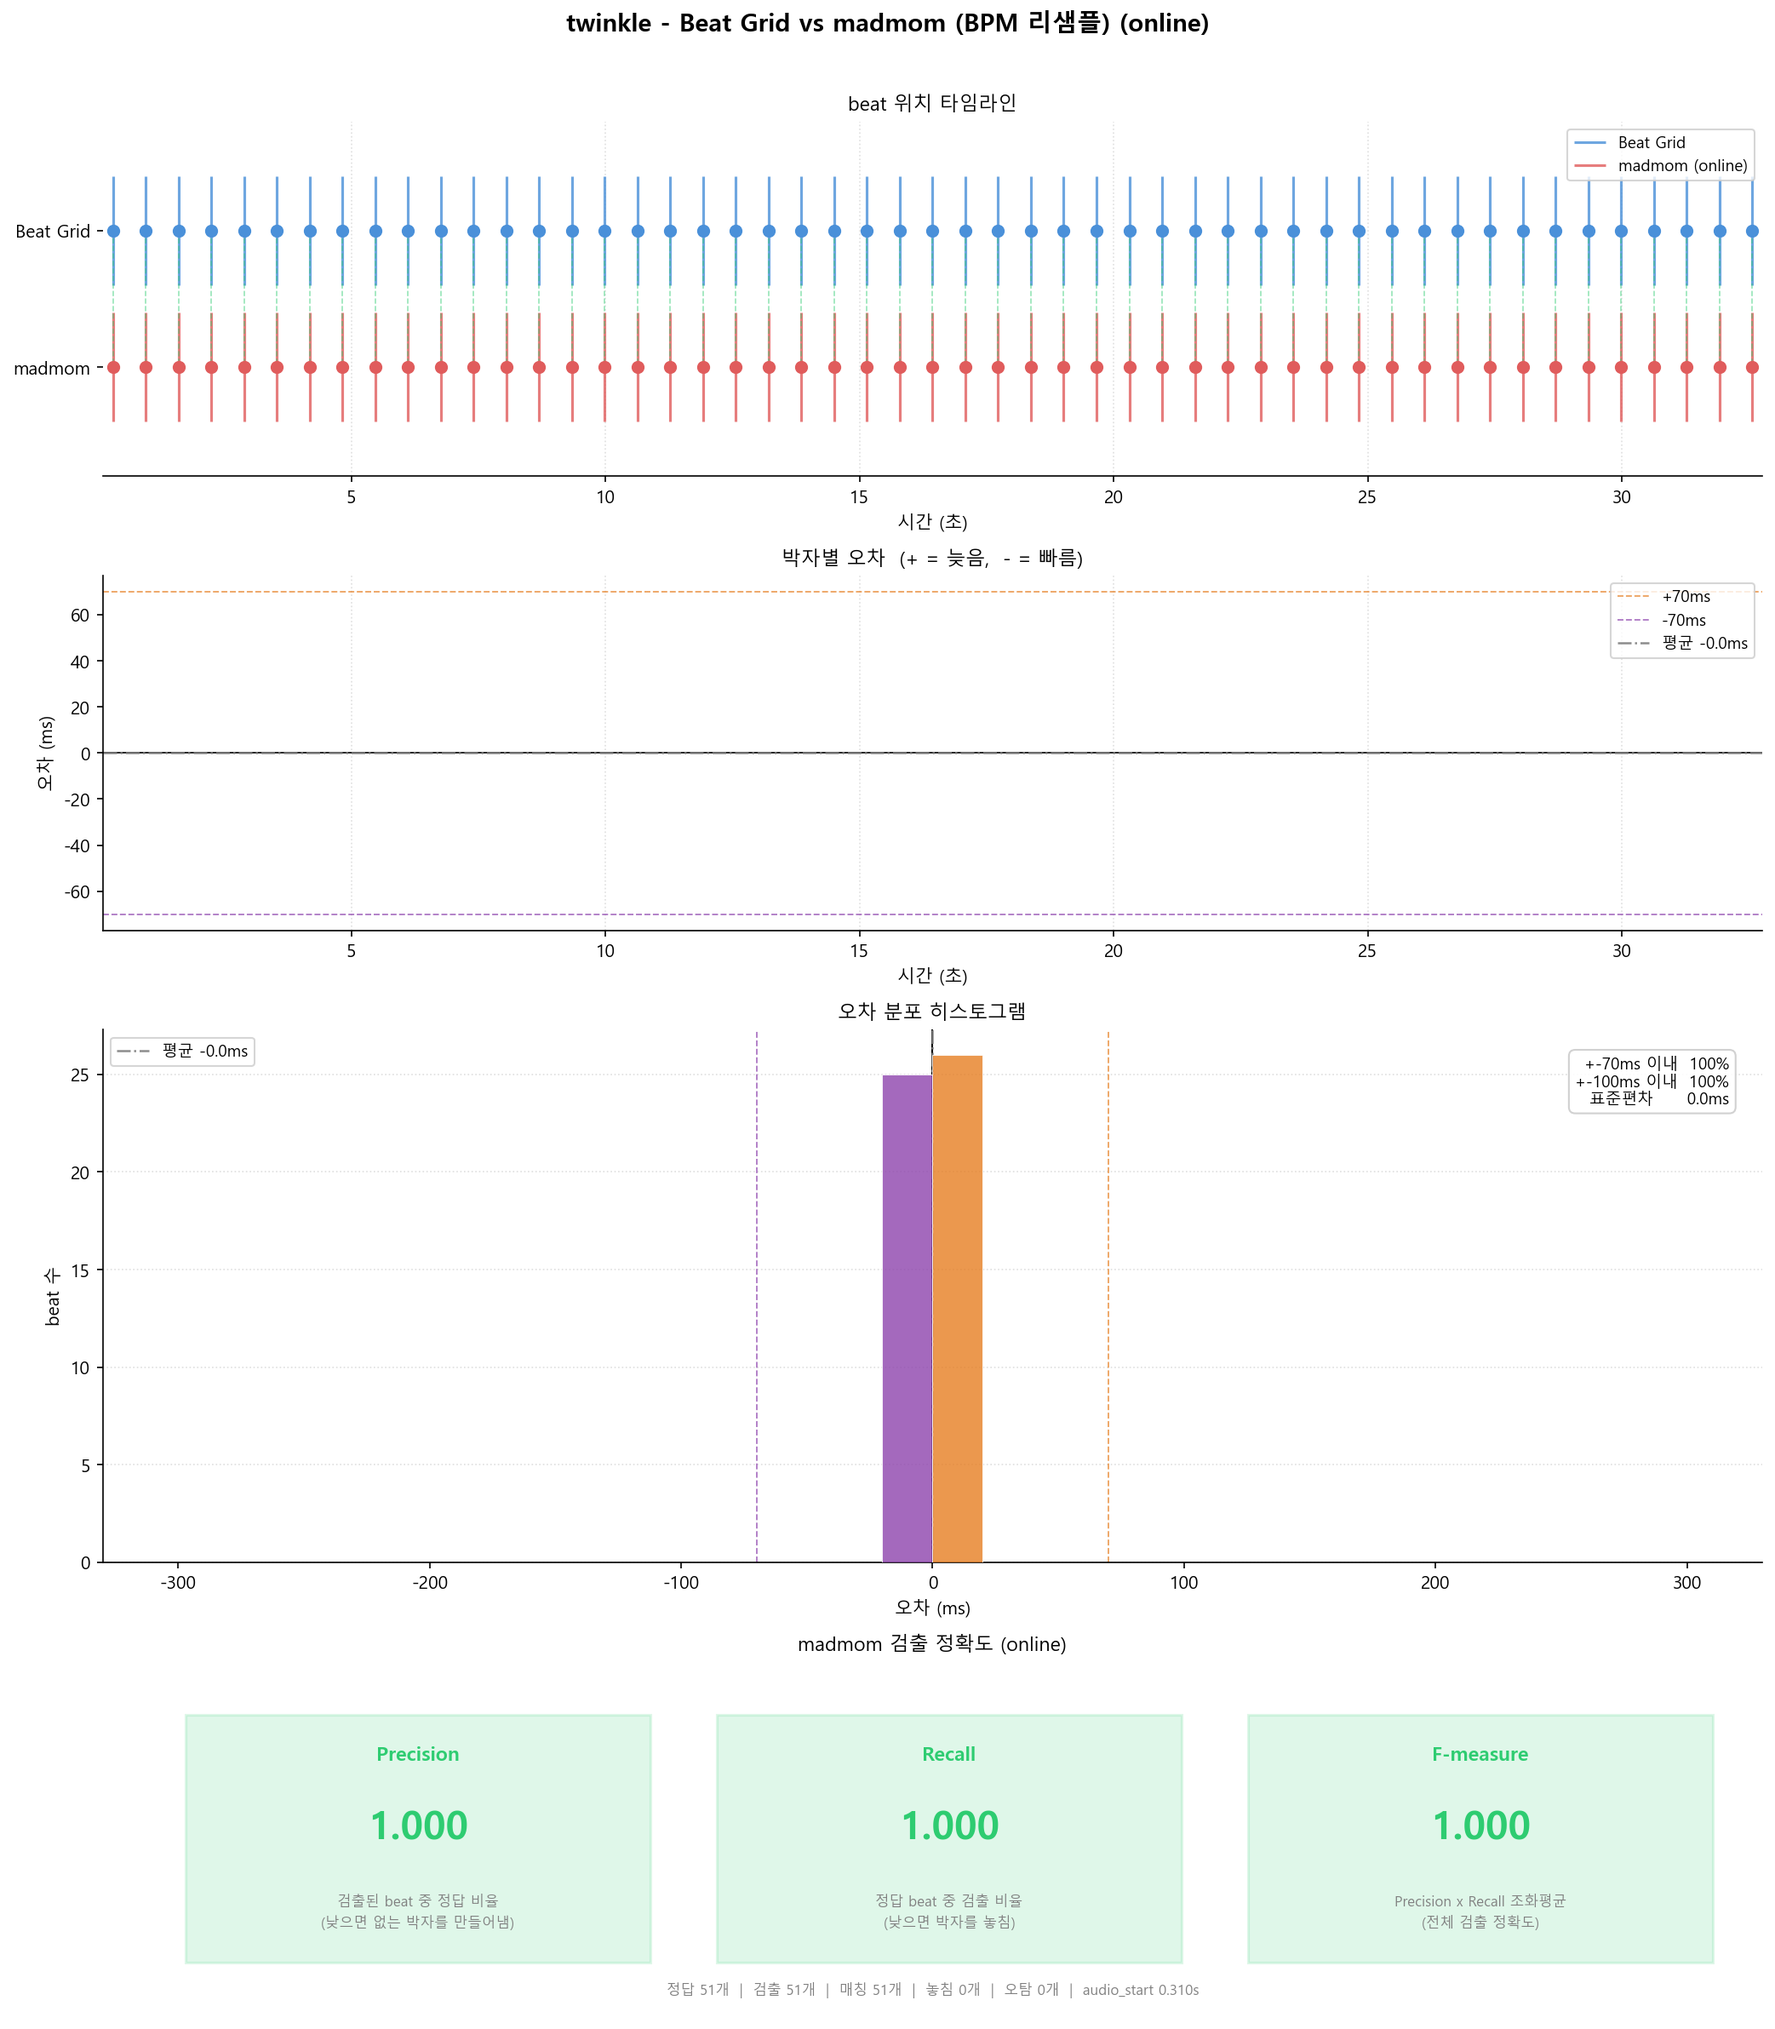
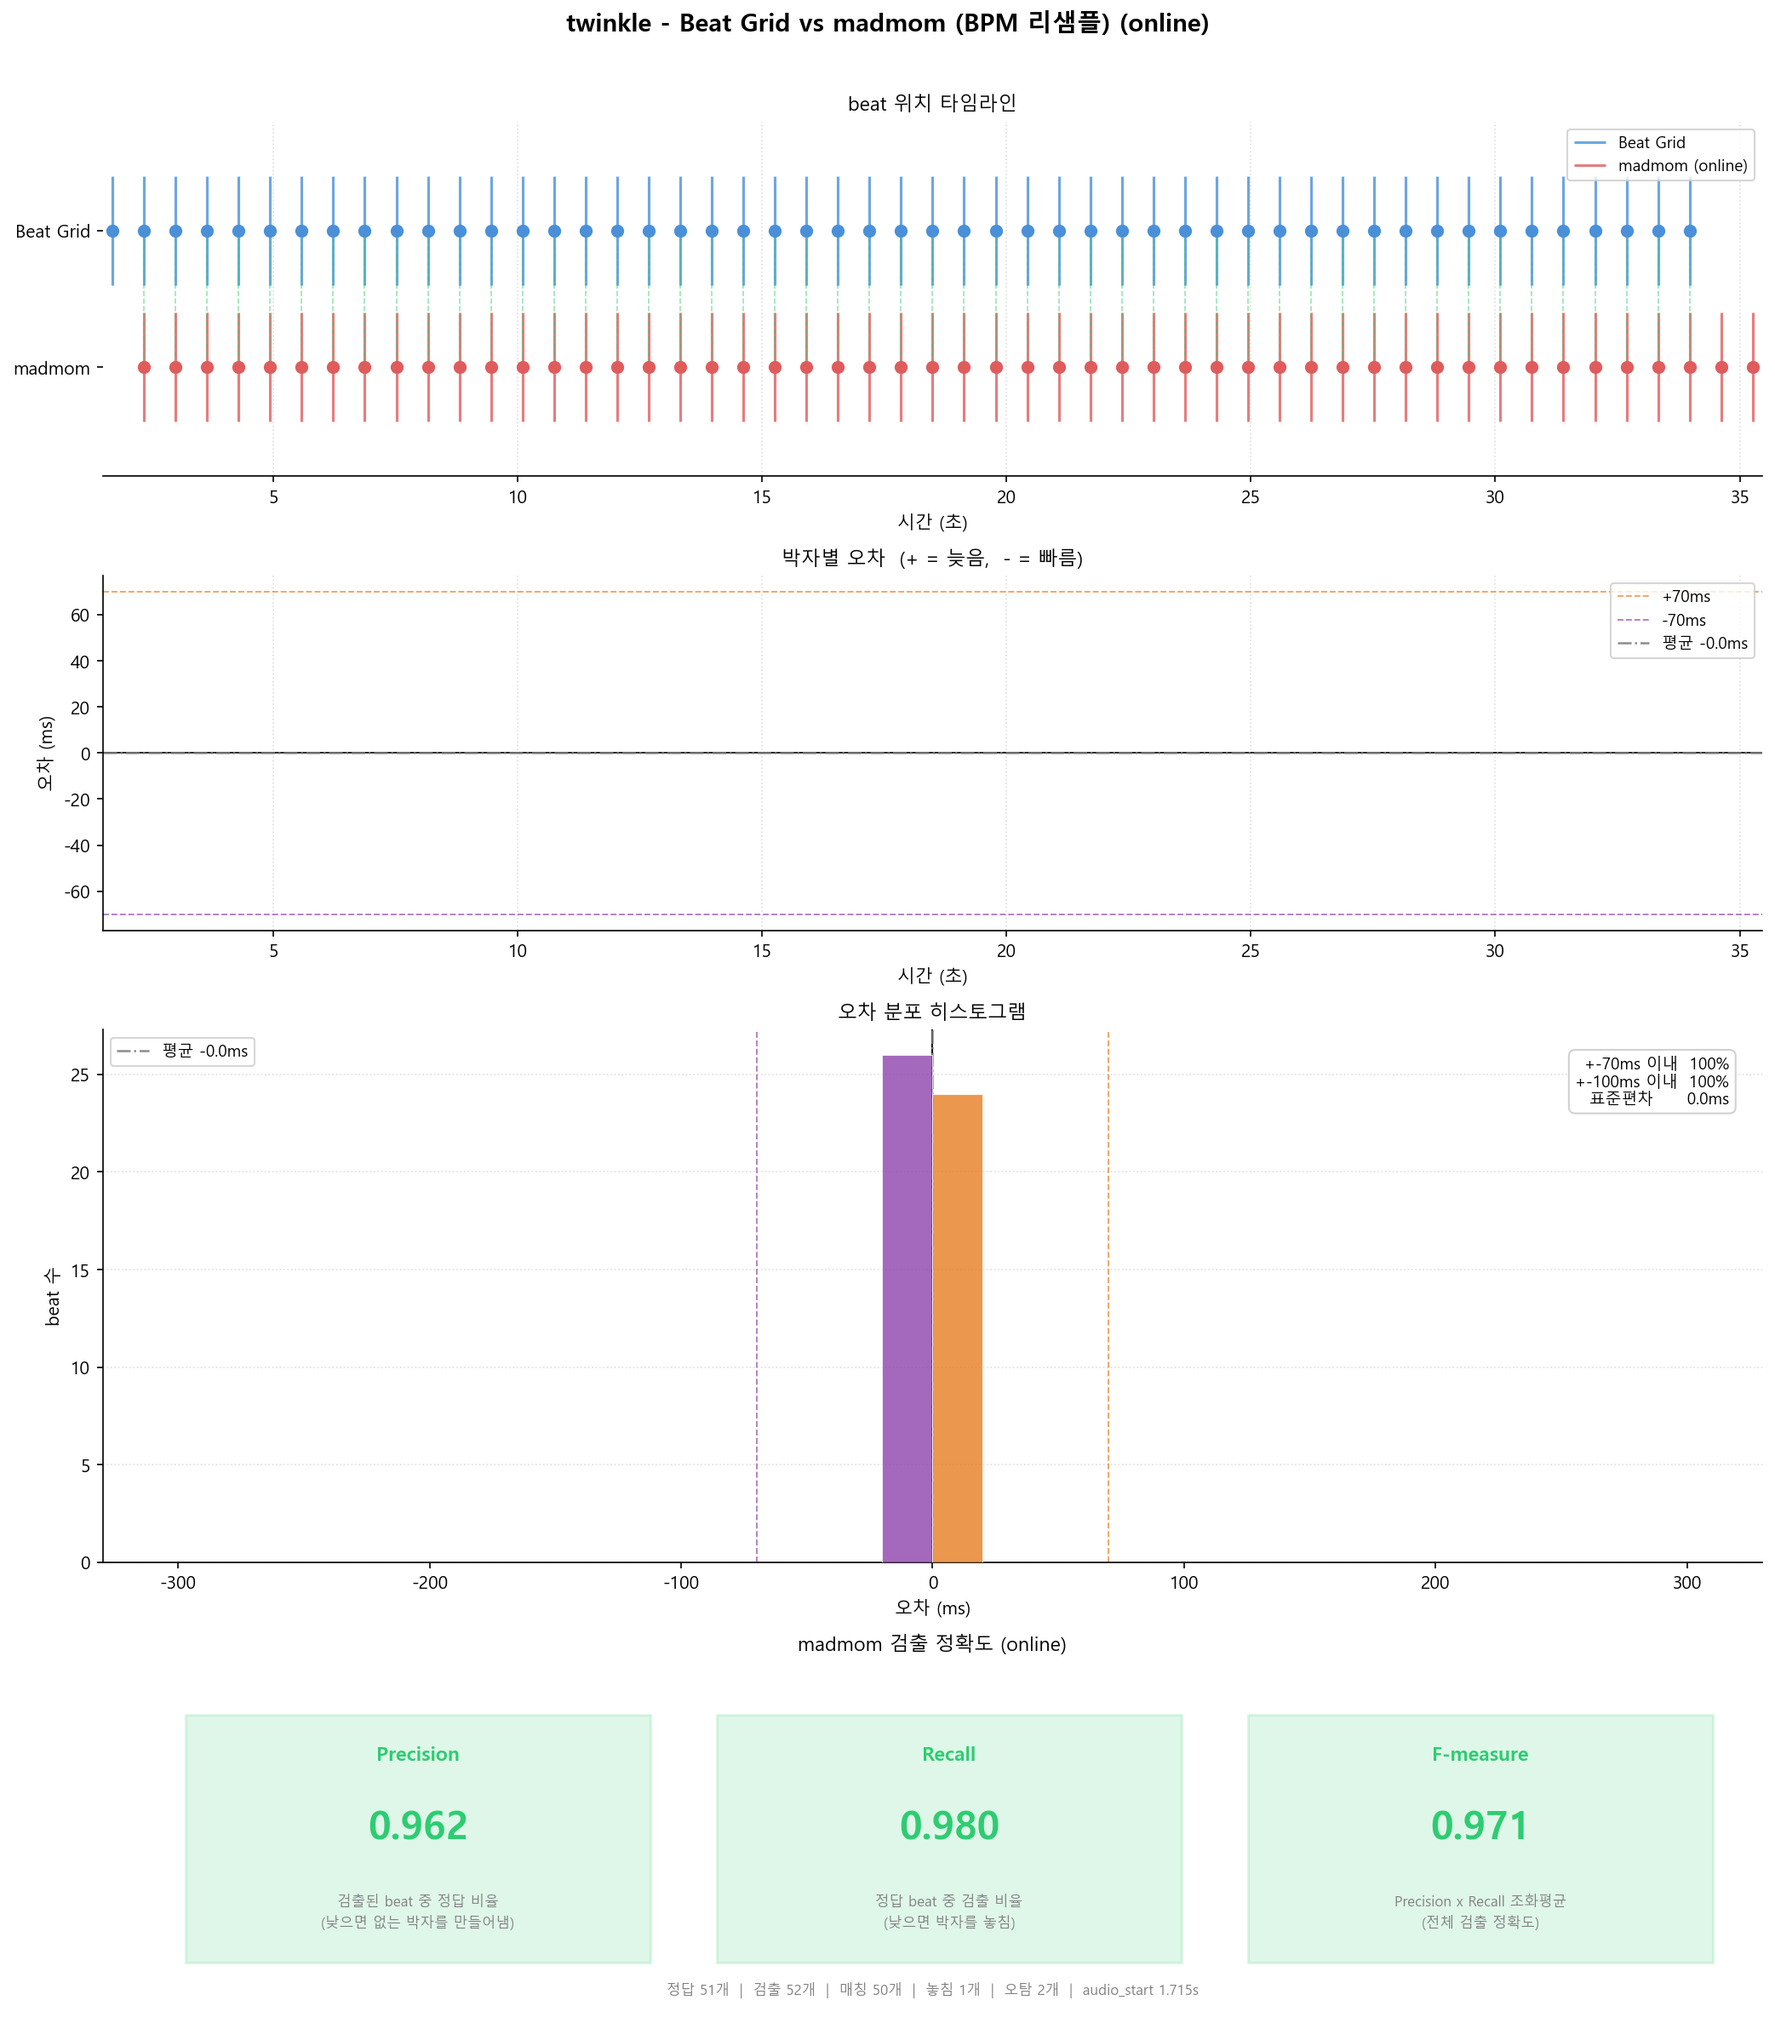
chore: 슈퍼바이저 전달값 수정(metadata 추가)

diff --git a/main.py b/main.py
@@ -474,7 +474,6 @@ def report_to_supervisor(
     reward:      float | None,
     q_value:     float,
     measure:     int,
-    fail_count:  int | None = None,   # 미사용 (하위 호환 유지용)
     meta:        dict | None = None,
 ) -> dict:
     """
@@ -489,7 +488,7 @@ def report_to_supervisor(
       "state":     "LATE",
       "action_id": "SA-07",
       "action":    "RHYTHM_CATCH_UP",
-      "feedback":  "박자보다 늦게 ...",
+      "feedback":  "박자보다 늦게 연주하고 있습니다. 박자를 맞추세요",
       "reward":    -0.3,          # 직전 액션 대비 평가 (첫 번째는 null)
       "q":         0.0700,        # 갱신 후 Q[state][action]
       "meta": {
@@ -497,8 +496,15 @@ def report_to_supervisor(
         "half":        1,         # 1=전반, 2=후반
         "start_time":  2.532,
         "end_time":    3.165,
-        "score":       0.61,
-        "drift_label": "LATE +92ms"
+        "note_count":  4,         # chunk 내 MIDI 노트 수
+        "onset_count": 4,         # grid beat 수 (박자 격자)
+        "beat_count":  5,         # madmom 검출 beat 수
+        "score":       0.61,      # detrended 타이밍 점수 (EMA)
+        "raw_score":   0.58,      # detrended 타이밍 점수 (비평활)
+        "tempo_label": "MODERATE",
+        "drift_label": "LATE +92ms",
+        "drift_ms":    92.0,      # 평균 드리프트 (ms, + 늦음 / - 빠름)
+        "beat_ratio":  1.25,      # beat_count / onset_count
       }
     }
     """
@@ -843,6 +849,26 @@ class ViolinRhythmAgent:
             measure_number  = chunk["measure"]
             half_in_measure = chunk["half"]
 
+            # ── state 도출에 사용된 메타값 계산 ─────────────────
+            onset_count = chunk.get("onset_count", 0)
+            beat_count  = chunk.get("beat_count",  0)
+            beat_ratio  = round(beat_count / onset_count, 3) if onset_count > 0 else None
+
+            drift_label = chunk.get("drift_label", "UNKNOWN")
+            drift_ms: float | None = None
+            if "LATE" in drift_label:
+                try:
+                    drift_ms = float(drift_label.split("+")[-1].replace("ms)", "").replace("ms", ""))
+                except ValueError:
+                    drift_ms = None
+            elif "EARLY" in drift_label:
+                try:
+                    drift_ms = -abs(float(drift_label.split("-")[-1].replace("ms)", "").replace("ms", "")))
+                except ValueError:
+                    drift_ms = None
+            else:
+                drift_ms = 0.0   # ON_TIME
+
             # ── 1. Q테이블 조회 → best_action 선택 ──────────────
             # CALL_SUPERVISOR 포함 모든 액션이 Q값 경쟁으로 선택됨
             action   = self.q_table.best_action(curr_state)
@@ -885,14 +911,20 @@ class ViolinRhythmAgent:
                 reward     = reward,
                 q_value    = q_new,
                 measure    = measure_number,
-                fail_count = None,          # fail_count 미사용
                 meta       = {
                     "index":       chunk_index,
                     "half":        half_in_measure,   # 1=전반, 2=후반
                     "start_time":  chunk["start_time"],
                     "end_time":    chunk["end_time"],
+                    "note_count":  chunk.get("note_count"),
+                    "onset_count": onset_count,
+                    "beat_count":  beat_count,
                     "score":       chunk.get("score"),
-                    "drift_label": chunk.get("drift_label"),
+                    "raw_score":   chunk.get("raw_score"),
+                    "tempo_label": chunk.get("tempo_label"),
+                    "drift_label": drift_label,
+                    "drift_ms":    drift_ms,          # + 늦음 / - 빠름 / 0 정확
+                    "beat_ratio":  beat_ratio,        # beat_count / onset_count
                 },
             )
             reports.append(report)
@@ -1079,7 +1111,7 @@ def plot_beat_comparison(
 # ══════════════════════════════════════════════════════════════
 if __name__ == "__main__":
     MIDI_PATH            = "twinkle2.mid"
-    AUDIO_PATH           = "reference.mp3"
+    AUDIO_PATH           = "performance2.mp4"
     SCORE_METADATA_PATH  = "score_metadata.json"   # None으로 바꾸면 beat_grid 방식으로 fallback
 
     agent = ViolinRhythmAgent(MIDI_PATH, score_metadata_path=SCORE_METADATA_PATH)
